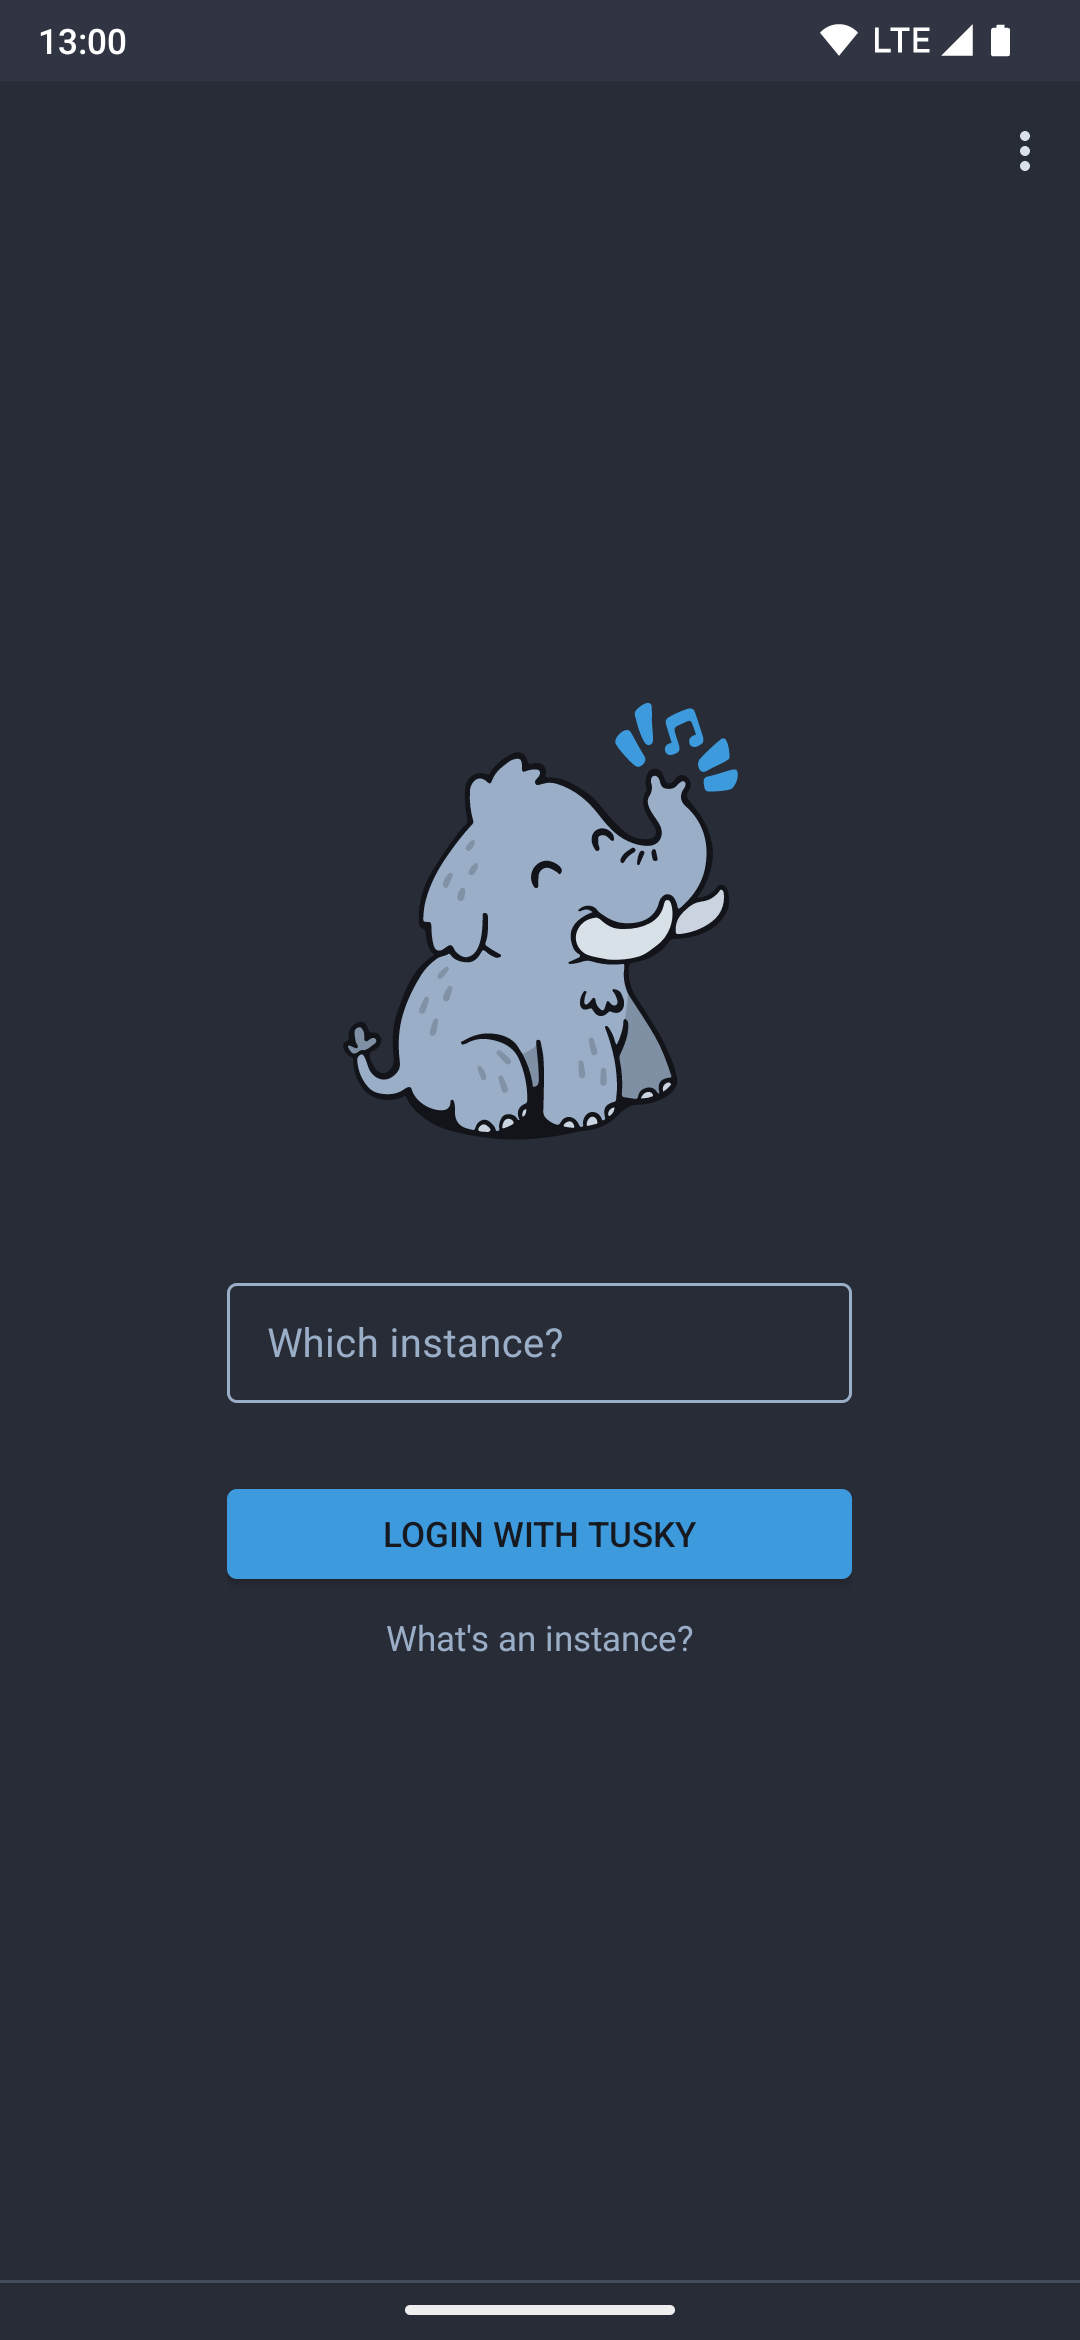
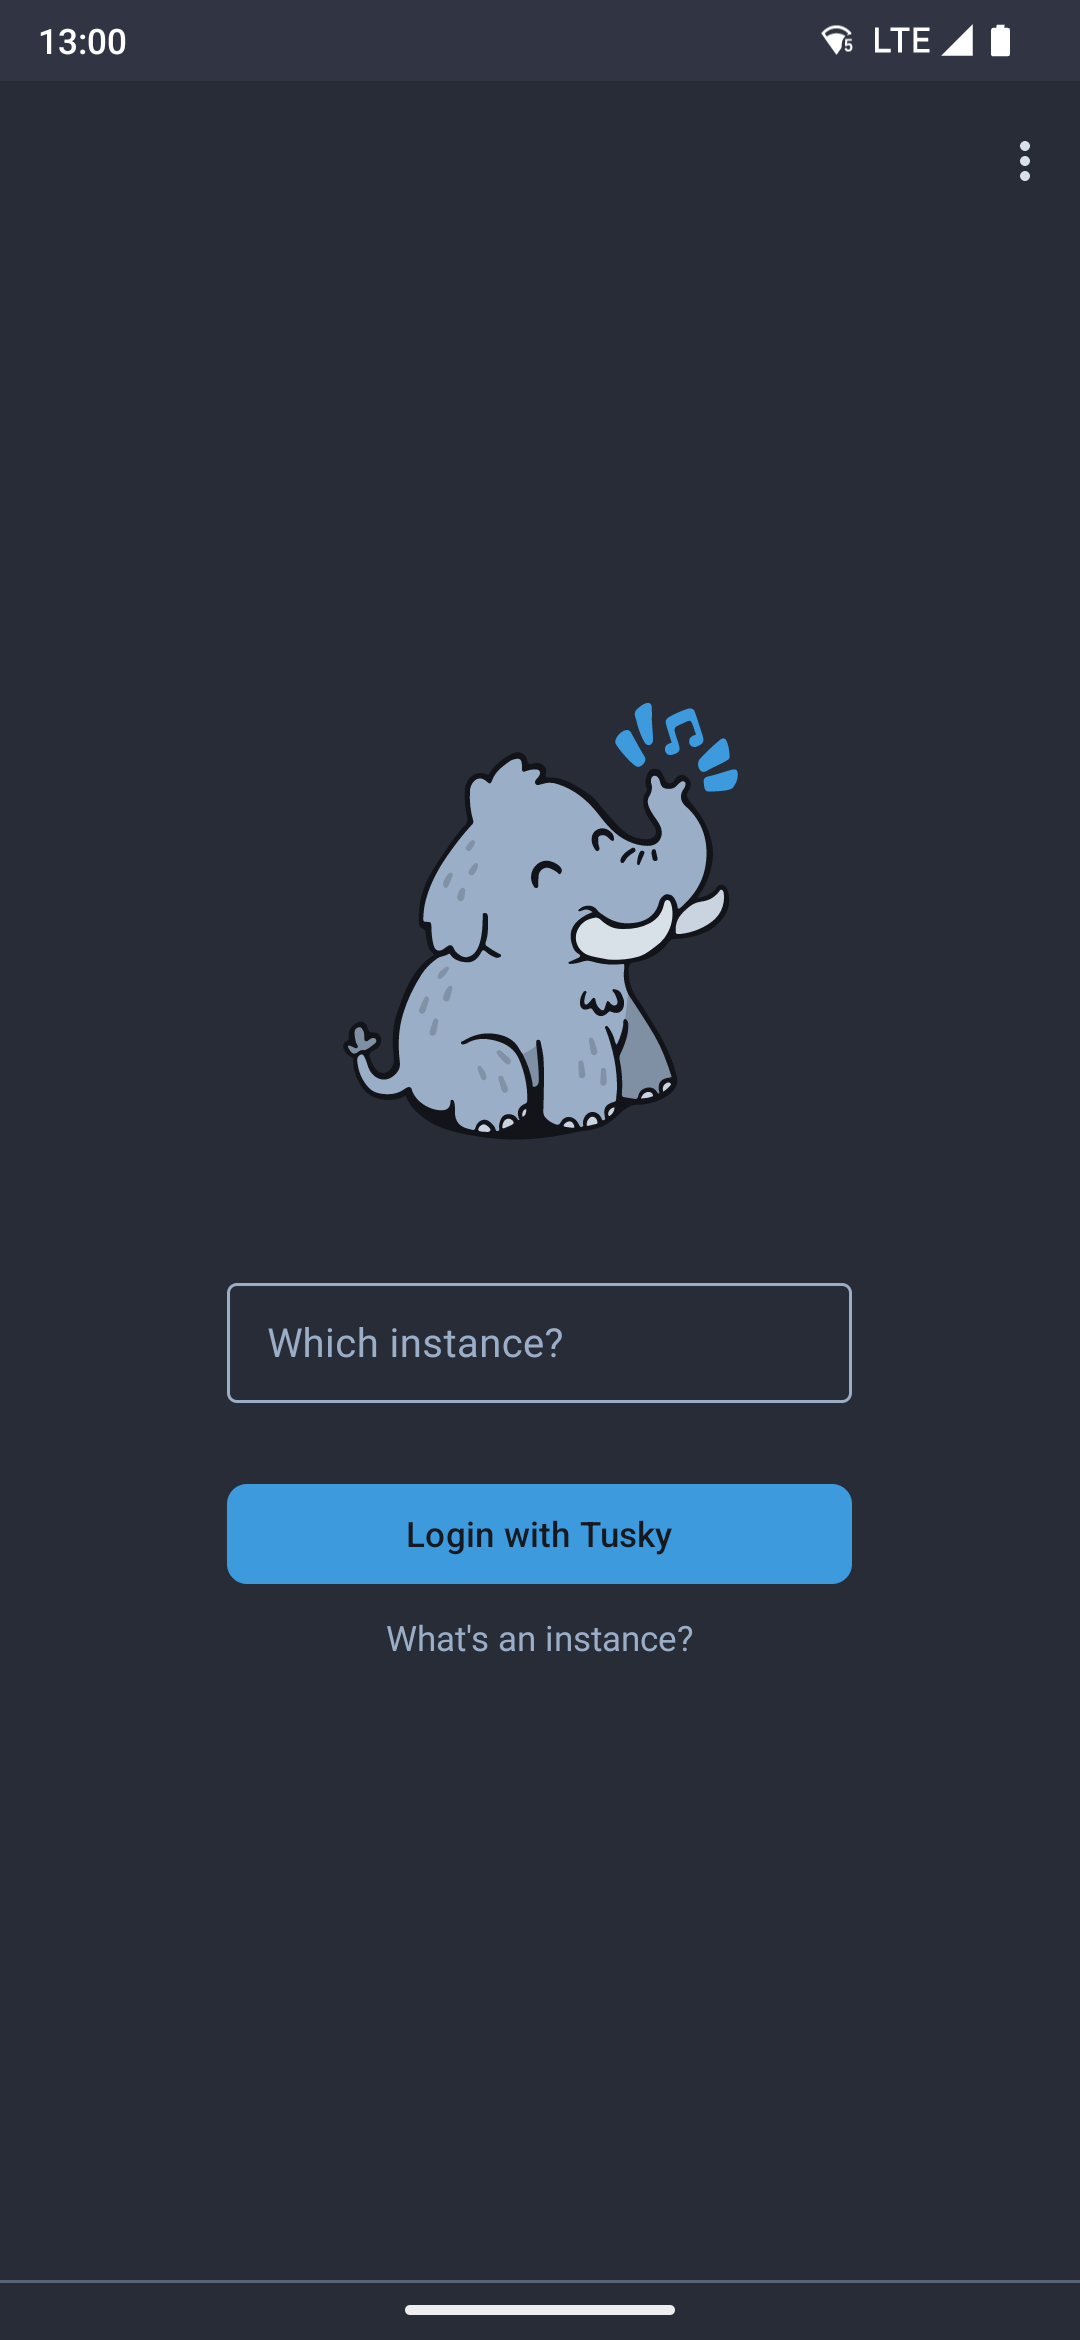
prepare release 126 (#4713)

Changed region(s): [[0.3361, 0.6239, 0.6417, 0.6863], [0.7639, 0.0, 0.7944, 0.0312]]

diff --git a/CHANGELOG.md b/CHANGELOG.md
@@ -6,6 +6,23 @@
 
 ### Significant bug fixes
 
+## v27.0
+
+### New features and other improvements
+
+- Tusky has been redesigned with Material 3 https://github.com/tuskyapp/Tusky/pull/4637 https://github.com/tuskyapp/Tusky/pull/4673
+- Support for Notification Policies (Mastodon 4.3 feature) https://github.com/tuskyapp/Tusky/pull/4768
+- Hashtags at the end of posts are now shown in a separate bar https://github.com/tuskyapp/Tusky/pull/4761
+- Full support for folding devices https://github.com/tuskyapp/Tusky/pull/4689
+- Improved post rendering in some edge cases https://github.com/tuskyapp/Tusky/pull/4650 https://github.com/tuskyapp/Tusky/pull/4672 https://github.com/tuskyapp/Tusky/pull/4723
+- Descriptions can now be added to audio attachments https://github.com/tuskyapp/Tusky/pull/4711
+- The screen keyboard now pops up automatically when opening a dialog that contains a textfield https://github.com/tuskyapp/Tusky/pull/4667
+
+### Significant bug fixes
+
+- fixes a bug where Tusky would drop your draft when switching apps https://github.com/tuskyapp/Tusky/pull/4685
+- fixes a bug where Tusky would drop media that is being added to a post https://github.com/tuskyapp/Tusky/pull/4662
+
 ## v26.2
 
 ### Significant bug fixes
